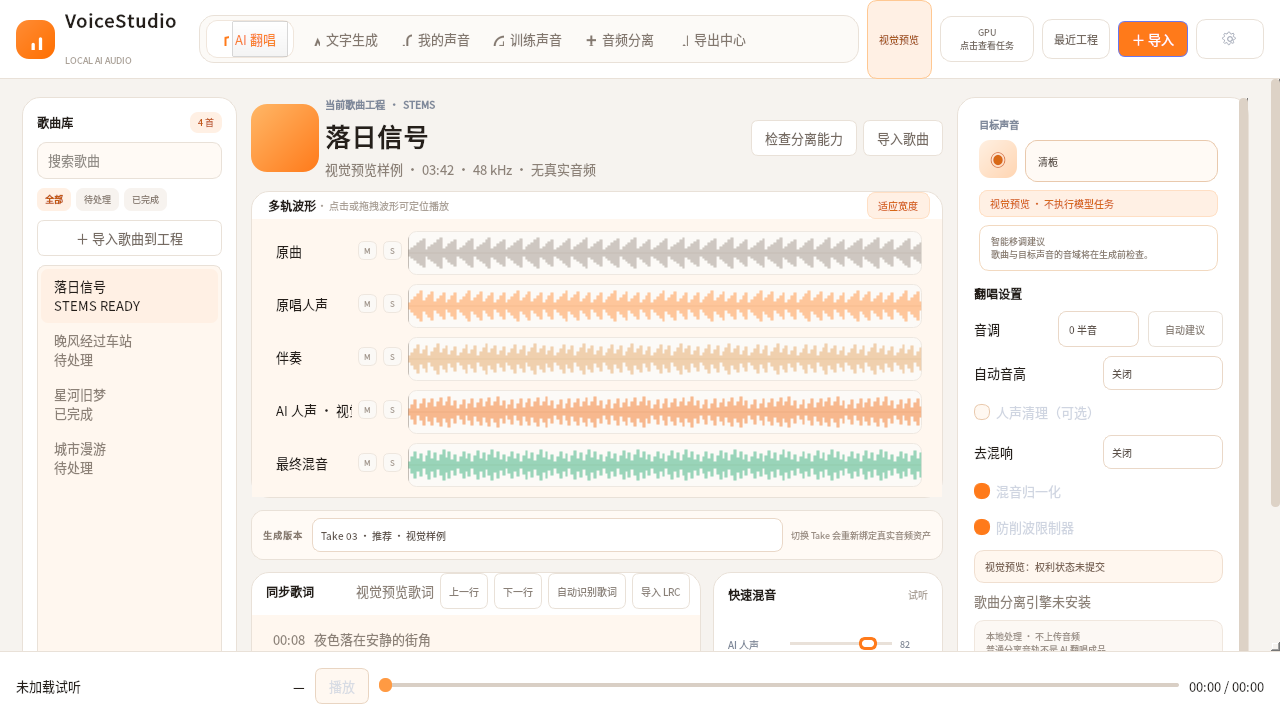
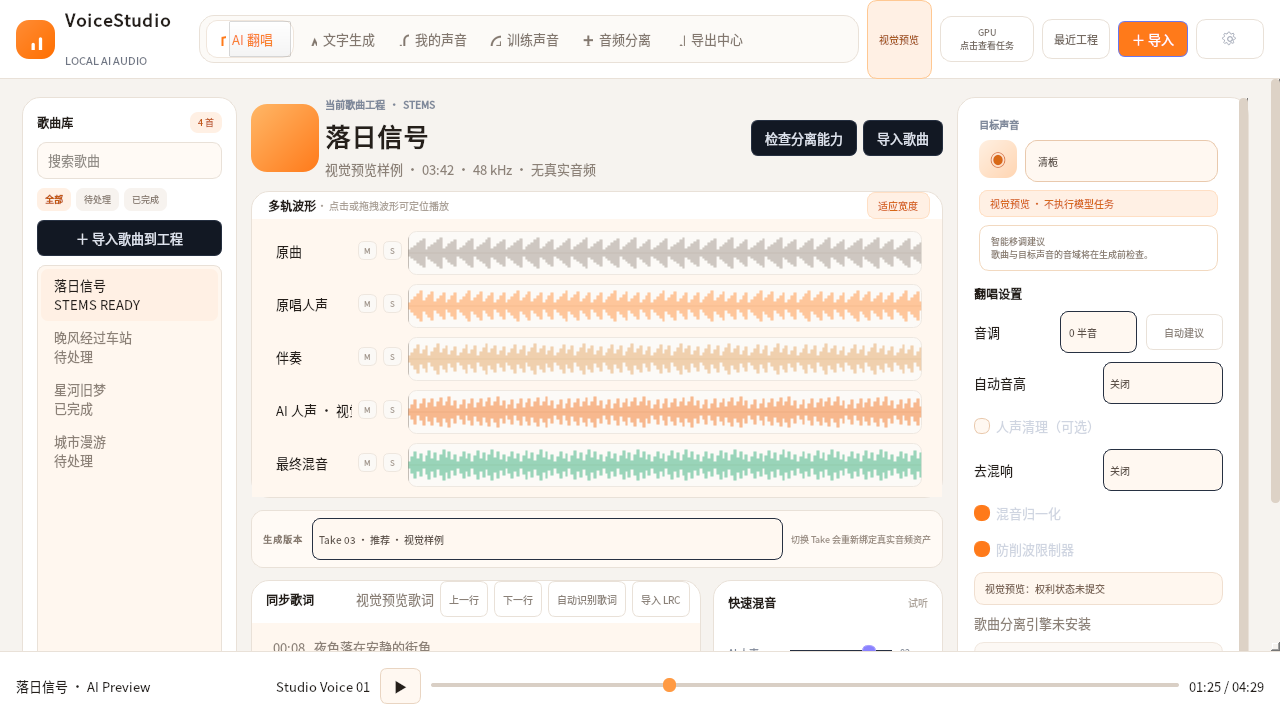
style(ui): polish preview transport and compact header

diff --git a/src/local_voice_studio/ui/main_window.py b/src/local_voice_studio/ui/main_window.py
@@ -5,22 +5,79 @@ import re
 import sys
 from pathlib import Path
 
-from PySide6.QtCore import QProcess, QProcessEnvironment, Qt, QUrl
+from PySide6.QtCore import QProcess, QProcessEnvironment, Qt, QUrl, QTimer, QSize
 from PySide6.QtGui import QCloseEvent, QDesktopServices, QIcon, QPainter, QTextCursor
 from PySide6.QtWidgets import (
     QCheckBox, QDialog, QFileDialog, QFrame, QHBoxLayout, QInputDialog, QLabel, QListWidget, QListWidgetItem, QMainWindow, QMenu, QMessageBox,
-    QGroupBox, QPlainTextEdit, QProgressBar, QPushButton, QStackedWidget, QStyledItemDelegate, QStyleOptionViewItem, QToolButton, QVBoxLayout, QWidget,
+    QGroupBox, QPlainTextEdit, QProgressBar, QPushButton, QSlider, QSizePolicy, QStackedWidget, QStyledItemDelegate, QStyleOptionViewItem, QToolButton, QVBoxLayout, QWidget,
 )
 
 from ..paths import AppPaths
 from ..storage import StudioStore
 from .project_session import ProjectSession
-from .simple_pages import MyVoicesPage, OneClickGeneratePage, OneClickTrainingPage, SimpleSettingsPage, TaskCenterDialog
+from .simple_pages import MyVoicesPage, OneClickGeneratePage, OneClickTrainingPage, SimpleSettingsPage, TaskCenterDialog, TaskDrawer
 from .cover_page import CoverPage
 from .theme import load_theme
 from .worker_client import WorkerClient
 from .audio import PreviewAudioController
 from .audio.global_player import GlobalPlayerSession
+from .html_pages import HtmlPage, RuntimePanel, SeparationStudioPage, ExportsStudioPage, RecentProjectsPage
+from .prototype_icons import prototype_icon
+
+
+class GlobalPlayerBar(QFrame):
+    """Persistent real-audio transport for the shared desktop player."""
+    def __init__(self, session: GlobalPlayerSession, parent=None):
+        super().__init__(parent); self.session = session; self._visual_preview = False; self.setObjectName("globalPlayerBar")
+        row = QHBoxLayout(self); row.setContentsMargins(16, 8, 16, 8); row.setSpacing(10)
+        self.title = QLabel("未加载试听"); self.title.setObjectName("playerTitle"); row.addWidget(self.title, 1)
+        self.side = QLabel("—"); self.side.setObjectName("playerSide"); row.addWidget(self.side)
+        self.play_button = QPushButton("播放"); self.play_button.setObjectName("playerPlay"); self.play_button.clicked.connect(self._toggle); row.addWidget(self.play_button)
+        self.slider = QSlider(Qt.Horizontal); self.slider.setRange(0, 0); self.slider.setObjectName("playerSeek"); self.slider.sliderMoved.connect(self._seek); row.addWidget(self.slider, 3)
+        self.time = QLabel("00:00 / 00:00"); row.addWidget(self.time)
+        self.timer = QTimer(self); self.timer.setInterval(200); self.timer.timeout.connect(self._tick); self.timer.start()
+    def _channel(self):
+        return self.session.controller.channels.get(self.session.controller.master_role)
+    def _toggle(self):
+        if self._visual_preview:
+            self.play_button.setText("Ⅱ" if self.play_button.text() == "▶" else "▶")
+            self.side.setText("视觉预览 · 无真实音频")
+            return
+        if self.session.controller.playing: self.session.pause(); self.play_button.setText("播放")
+        else:
+            self.session.play()
+            self.play_button.setText("暂停" if self.session.controller.playing else "播放")
+            if not self.session.controller.playing: self.title.setText("请先在创作页面载入试听音频")
+    def _seek(self, value):
+        if self._visual_preview:
+            self.time.setText(f"{self._fmt(value)} / {self._fmt(self.slider.maximum())}"); return
+        self.session.seek(int(value))
+    def _tick(self):
+        if self._visual_preview:
+            return
+        ch = self._channel()
+        if ch is None:
+            self.slider.setRange(0, 0); self.time.setText("00:00 / 00:00"); self.play_button.setText("播放"); return
+        player = ch.player; pos = ch.position()
+        duration = int(player.duration()) if callable(getattr(player, "duration", None)) else 0
+        self.slider.setRange(0, max(0, duration))
+        if not self.slider.isSliderDown():
+            self.slider.blockSignals(True); self.slider.setValue(min(pos, max(0, self.slider.maximum()))); self.slider.blockSignals(False)
+        source = player.source().toLocalFile() if callable(getattr(player, "source", None)) else ""
+        self.title.setText(Path(source).name if source else "未加载试听")
+        self.time.setText(f"{self._fmt(pos)} / {self._fmt(duration)}")
+        self.play_button.setText("暂停" if self.session.controller.playing else "播放")
+    @staticmethod
+    def _fmt(ms):
+        sec=max(0,int(ms)//1000); return f"{sec//60:02d}:{sec%60:02d}"
+    def sync(self, title="", side=""):
+        self.title.setText(title or "未加载试听"); self.side.setText(side or "—")
+
+    def set_visual_sample(self, title="落日信号 · AI Preview", side="Studio Voice 01", current=85000, total=269000):
+        """Show the HTML reference transport without claiming an audio file exists."""
+        self._visual_preview = True
+        self.title.setText(title); self.side.setText(side); self.play_button.setText("▶")
+        self.slider.setRange(0, int(total)); self.slider.setValue(int(current)); self.time.setText(f"{self._fmt(current)} / {self._fmt(total)}")
 
 
 class SetupDialog(QDialog):
@@ -93,28 +150,56 @@ class SetupDialog(QDialog):
 
 
 class MainWindow(QMainWindow):
-    def __init__(self, paths: AppPaths, store: StudioStore):
+    def __init__(self, paths: AppPaths, store: StudioStore, client=None):
         super().__init__(); self.paths, self.store = paths, store; self.setWindowTitle("VoiceStudio · 本地 AI 声音创作工作室"); self.resize(1440, 900); self.setMinimumSize(1280, 720)
         self.session = ProjectSession(store, self); self.project = self.session.current
-        self.client = WorkerClient(paths, self); self.global_player = GlobalPlayerSession(PreviewAudioController.create_qt(self)); self._build(); self.session.project_changed.connect(self._switch_project); self.client.start(); self.statusBar().showMessage("本地工作进程正在启动……")
+        self.client = client or WorkerClient(paths, self); self.global_player = GlobalPlayerSession(PreviewAudioController.create_qt(self)); self._build(); self.session.project_changed.connect(self._switch_project); self.client.start(); self.statusBar().showMessage("本地工作进程正在启动……"); self.statusBar().hide()
         self.client.state_changed.connect(self._state); self.client.event.connect(self._worker_event)
 
     def _build(self) -> None:
-        central = QWidget(); root = QHBoxLayout(central); root.setContentsMargins(0, 0, 0, 0); root.setSpacing(0); self.setCentralWidget(central)
-        sidebar = QWidget(); sidebar.setObjectName("sidebar"); sidebar.setFixedWidth(220); side_layout = QVBoxLayout(sidebar); side_layout.setContentsMargins(0, 0, 0, 0); brand = QLabel("VoiceStudio"); brand.setObjectName("brand"); side_layout.addWidget(brand); brand_sub = QLabel("LOCAL AI AUDIO STUDIO"); brand_sub.setObjectName("brandSub"); side_layout.addWidget(brand_sub); self.project_button = QToolButton(); self.project_button.setObjectName("projectPicker"); self.project_button.setToolButtonStyle(Qt.ToolButtonTextBesideIcon); self.project_button.setPopupMode(QToolButton.InstantPopup); self.project_menu = QMenu(self.project_button); self.project_menu.aboutToShow.connect(self._refresh_project_menu); self.project_button.setMenu(self.project_menu); side_layout.addWidget(self.project_button)
-        self.navigation = QListWidget(); self.navigation.setObjectName("navigation"); self.navigation.setAccessibleName("主导航"); self.navigation.setFrameShape(QListWidget.NoFrame); self.navigation.setItemDelegate(_NavigationDelegate(self.navigation)); side_layout.addWidget(self.navigation); task_center = QPushButton("任务中心"); task_center.setObjectName("sidebarButton"); task_center.setAccessibleName("任务中心"); task_center.clicked.connect(self._open_task_center); side_layout.addWidget(task_center); version = QLabel("GPT-SoVITS V2ProPlus\n完全本地 · 无遥测"); version.setObjectName("sidebarFoot"); side_layout.addWidget(version); root.addWidget(sidebar)
-        workspace = QWidget(); workspace.setObjectName("workspace"); workspace_layout = QVBoxLayout(workspace); workspace_layout.setContentsMargins(0, 0, 0, 0); workspace_layout.setSpacing(0)
-        topbar = QFrame(); topbar.setObjectName("topbar"); topbar_layout = QHBoxLayout(topbar); topbar_layout.setContentsMargins(26, 0, 26, 0); topbar_layout.setSpacing(8)
-        topbar_layout.addWidget(QLabel("创作")); topbar_layout.addWidget(QLabel("›")); self.current_title = current_title = QLabel("AI 翻唱工作台"); current_title.setObjectName("topbarTitle"); topbar_layout.addWidget(current_title); topbar_layout.addStretch()
-        self.topbar_status = QLabel("本地工作进程 · 启动中"); self.topbar_status.setObjectName("topbarStatus"); topbar_layout.addWidget(self.topbar_status, 0, Qt.AlignVCenter)
-        settings_button = QPushButton("设置"); settings_button.setObjectName("topbarButton"); settings_button.setAccessibleName("打开设置"); settings_button.clicked.connect(lambda: self.navigation.setCurrentRow(4)); topbar_layout.addWidget(settings_button)
-        workspace_layout.addWidget(topbar)
-        self.stack = QStackedWidget(); workspace_layout.addWidget(self.stack, 1); root.addWidget(workspace, 1)
-        for icon, name in (("cover.svg", "AI 翻唱"), ("generate.svg", "文字生成"), ("voices.svg", "我的声音"), ("training.svg", "训练声音"), ("settings.svg", "设置")):
-            item = QListWidgetItem(self._navigation_icon(icon), name)
-            self.navigation.addItem(item)
-        self.navigation.currentRowChanged.connect(self.stack.setCurrentIndex); self.navigation.currentTextChanged.connect(self.current_title.setText); self.navigation.setCurrentRow(0)
+        central = QWidget(); central.setObjectName("appShell"); root = QVBoxLayout(central); root.setContentsMargins(0, 0, 0, 0); root.setSpacing(0); self.setCentralWidget(central)
+        header = QFrame(); header.setObjectName("appHeader"); header.setFixedHeight(78); h = QHBoxLayout(header); h.setContentsMargins(20, 0, 20, 0); h.setSpacing(16); self._header_layout = h
+        brand_box = QWidget(); self.brand_box = brand_box; brand_box.setFixedWidth(205); brand_row = QHBoxLayout(brand_box); brand_row.setContentsMargins(0, 0, 0, 0); brand_row.setSpacing(10)
+        mark = QLabel(); mark.setObjectName("brandMark"); mark.setFixedSize(39, 39); mark.setAlignment(Qt.AlignCenter); mark.setPixmap(prototype_icon("brand", 22).pixmap(22, 22)); brand_row.addWidget(mark)
+        brand_text = QVBoxLayout(); brand_text.setSpacing(2); brand = QLabel("VoiceStudio"); self.brand_label = brand; brand.setObjectName("brand"); brand.setContentsMargins(0, 0, 0, 0); brand.setFixedWidth(130); brand_text.addWidget(brand)
+        sub = QLabel("LOCAL AI AUDIO"); sub.setObjectName("brandSub"); sub.setContentsMargins(0, 0, 0, 0); sub.setFixedWidth(130); brand_text.addWidget(sub); brand_row.addLayout(brand_text); h.addWidget(brand_box)
+        self.navigation = QListWidget(); self.navigation.setObjectName("topNavigation"); self.navigation.setAccessibleName("主导航"); self.navigation.setFlow(QListWidget.LeftToRight); self.navigation.setHorizontalScrollBarPolicy(Qt.ScrollBarAlwaysOff); self.navigation.setVerticalScrollBarPolicy(Qt.ScrollBarAlwaysOff); self.navigation.setFrameShape(QListWidget.NoFrame); self.navigation.setFixedHeight(42); h.addWidget(self.navigation, 1)
+        self.navigation.setFixedHeight(48); self.navigation.setWrapping(False); self.navigation.setIconSize(QSize(16, 16))
+        self.topbar_status = QLabel("本地工作进程 · 启动中"); self.topbar_status.hide()
+        gpu_button = QPushButton("GPU\n点击查看任务"); gpu_button.setObjectName("gpuPill"); gpu_button.clicked.connect(self._open_task_center); h.addWidget(gpu_button)
+        self.project_button = QToolButton(); self.project_button.setObjectName("projectPicker"); self.project_button.setToolButtonStyle(Qt.ToolButtonTextBesideIcon); self.project_button.setPopupMode(QToolButton.InstantPopup); self.project_menu = QMenu(self.project_button); self.project_menu.aboutToShow.connect(self._refresh_project_menu); self.project_button.setMenu(self.project_menu); h.addWidget(self.project_button)
+        h.removeWidget(self.project_button); self.project_button.hide()
+        recent = QPushButton("最近工程"); recent.setObjectName("topbarButton"); recent.clicked.connect(lambda: self.navigation.setCurrentRow(6)); h.addWidget(recent)
+        quick_import = QPushButton("＋ 导入"); quick_import.setObjectName("primaryButton"); quick_import.clicked.connect(self._quick_import); h.addWidget(quick_import)
+        settings_button = QPushButton(); settings_button.setObjectName("topbarButton"); settings_button.setIcon(self._navigation_icon("settings.svg")); settings_button.setToolTip("设置"); settings_button.setAccessibleName("设置"); settings_button.setFixedWidth(44); settings_button.clicked.connect(lambda: self.navigation.setCurrentRow(7)); h.addWidget(settings_button)
+        root.addWidget(header)
+        content = QHBoxLayout(); content.setContentsMargins(0, 0, 0, 0); content.setSpacing(0)
+        self.stack = QStackedWidget(); self.stack.setObjectName("pageStack"); self.stack.setMinimumHeight(0); self.stack.setSizePolicy(QSizePolicy.Expanding, QSizePolicy.Ignored); content.addWidget(self.stack, 1)
+        root.addLayout(content, 1)
+        self.global_player_bar = GlobalPlayerBar(self.global_player); root.addWidget(self.global_player_bar)
+        labels = ["AI 翻唱", "文字生成", "我的声音", "训练声音", "音频分离", "导出中心", "最近工程", "设置"]
+        for name in labels:
+            item = QListWidgetItem(name); item.setSizeHint(QSize(104, 38)); self.navigation.addItem(item)
+        self.navigation.item(6).setHidden(True); self.navigation.item(7).setHidden(True)
+        for index, name in enumerate(("cover", "tts", "voices", "train", "separator", "exports")): self.navigation.item(index).setIcon(prototype_icon(name))
+        self.navigation.currentRowChanged.connect(self.stack.setCurrentIndex); self.navigation.setCurrentRow(0)
         self._build_project_pages(); self._update_project_button()
+        self._apply_header_density()
+
+    def _apply_header_density(self) -> None:
+        """Mirror the prototype's compact header breakpoint without hiding pages."""
+        if not hasattr(self, "navigation"):
+            return
+        compact = self.width() <= 1300
+        self.brand_box.setFixedWidth(175 if compact else 205)
+        self.brand_label.setStyleSheet("font-size:17px;" if compact else "")
+        self._header_layout.setContentsMargins(16 if compact else 20, 0, 16 if compact else 20, 0)
+        self._header_layout.setSpacing(8 if compact else 16)
+        self.navigation.setIconSize(QSize(14 if compact else 16, 14 if compact else 16))
+        item_width = 92 if compact else 104
+        for index in range(self.navigation.count()):
+            self.navigation.item(index).setSizeHint(QSize(item_width, 38))
+        self.navigation.setStyleSheet("QListWidget::item { font-size: 9px; padding: 0 2px; }" if compact else "")
 
     @staticmethod
     def _navigation_icon(name: str) -> QIcon:
@@ -126,17 +211,57 @@ class MainWindow(QMainWindow):
 
     def _build_project_pages(self) -> None:
         row = max(0, self.navigation.currentRow())
+        if not hasattr(self, "_page_groups"): self._page_groups = {}
+        key = str(self.project.resolve())
         while self.stack.count():
             page = self.stack.widget(0)
-            if hasattr(page, "release_resources"): page.release_resources()
-            self.stack.removeWidget(page); page.deleteLater()
-        self.cover_page = CoverPage(self.paths, self.store, self.project, self.client, global_player=self.global_player); self.generate_page = OneClickGeneratePage(self.store, self.project, self.client); self.voice_page = MyVoicesPage(self.store, self.project); self.training_page = OneClickTrainingPage(self.store, self.project, self.client); self.settings_page = SimpleSettingsPage(self.paths, self.store, self.project, self.client)
-        for page in (self.cover_page, self.generate_page, self.voice_page, self.training_page, self.settings_page): self.stack.addWidget(page)
-        self.stack.setCurrentIndex(row)
+            page._background_project = True
+            self.stack.removeWidget(page); page.hide()
+        if key in self._page_groups:
+            pages, self.global_player = self._page_groups[key]
+            self._install_project_pages(pages, row)
+            return
+        if self._page_groups:
+            self.global_player = GlobalPlayerSession(PreviewAudioController.create_qt(self))
+        self.cover_page = CoverPage(self.paths, self.store, self.project, self.client, global_player=self.global_player)
+        self.generate_page = OneClickGeneratePage(self.store, self.project, self.client)
+        self.voice_page = MyVoicesPage(self.store, self.project)
+        self.training_page = OneClickTrainingPage(self.store, self.project, self.client)
+        self.settings_page = SimpleSettingsPage(self.paths, self.store, self.project, self.client)
+        self.separator_page = SeparationStudioPage(self.store, self.project)
+        self.exports_page = ExportsStudioPage(self.store, self.project)
+        self.recent_page = RecentProjectsPage(self.store, self.project)
+        self.separator_page.audio_selected.connect(self._import_for_separation)
+        self.recent_page.project_selected.connect(lambda path: self.session.activate(Path(path)))
+        self.recent_page.project_create_requested.connect(self._new_project)
+        pages = (self.cover_page, self.generate_page, self.voice_page, self.training_page, self.separator_page, self.exports_page, self.recent_page, self.settings_page)
+        self._page_groups[key] = (pages, self.global_player)
+        self._install_project_pages(pages, row)
         self.voice_page.profiles_changed.connect(self.generate_page.refresh_profiles); self.voice_page.profiles_changed.connect(self.cover_page.refresh_profiles); self.training_page.profiles_changed.connect(self.generate_page.refresh_profiles); self.training_page.profiles_changed.connect(self.cover_page.refresh_profiles); self.training_page.profiles_changed.connect(self.voice_page.refresh); self.voice_page.generate_requested.connect(self._use_profile); self.voice_page.retrain_requested.connect(self._retrain_profile); self.generate_page.train_requested.connect(lambda: self.navigation.setCurrentRow(3)); self.settings_page.install_requested.connect(self._open_setup)
+
+    def _install_project_pages(self, pages, row):
+        names = ("cover_page", "generate_page", "voice_page", "training_page", "separator_page", "exports_page", "recent_page", "settings_page")
+        for name, page in zip(names, pages):
+            setattr(self, name, page); page._background_project = False; self.stack.addWidget(page)
+        self.global_player_bar.session = self.global_player
+        self.stack.setCurrentIndex(row)
 
     def _update_project_button(self) -> None:
         self.project_button.setText(self.session.display_name(self.project) + "  ▾")
+
+    def _quick_import(self):
+        self.navigation.setCurrentRow(0)
+        self.cover_page.import_song()
+
+    def _activate_dashboard_project(self, path):
+        try:
+            self.session.activate(Path(path)); self.navigation.setCurrentRow(0)
+        except (OSError, ValueError) as exc: QMessageBox.warning(self, "无法打开工程", str(exc))
+
+    def _import_for_separation(self, path: str) -> None:
+        self.navigation.setCurrentRow(0)
+        self.cover_page.set_song(path)
+        self.cover_page.separate_song()
 
     def _refresh_project_menu(self) -> None:
         self.project_menu.clear()
@@ -161,12 +286,45 @@ class MainWindow(QMainWindow):
         except Exception as exc: QMessageBox.critical(self, "VoiceStudio", str(exc))
 
     def _switch_project(self, project: Path) -> None:
+        self.global_player.pause()
+        self.generate_page.player.pause()
         self.project = Path(project); self._build_project_pages(); self._update_project_button(); self.statusBar().showMessage(f"已切换到项目：{self.session.display_name(self.project)}", 4000)
 
     def _open_task_center(self) -> None:
-        TaskCenterDialog(self.store, self.client, self).exec()
+        if hasattr(self, "task_drawer") and self.task_drawer.isVisible():
+            self.task_drawer.hide(); return
+        if not hasattr(self, "task_drawer"):
+            self.task_drawer = TaskDrawer(self.store, self.client, self)
+            self.task_drawer.full_center_requested.connect(self._open_full_task_center)
+        self.task_drawer.show_for_parent()
+
+    def _open_full_task_center(self) -> None:
+        dialog = TaskCenterDialog(self.store, self.client, self)
+        dialog.retry_generation_requested.connect(self._retry_generation)
+        dialog.exec()
+
+    def resizeEvent(self, event: QCloseEvent) -> None:  # noqa: N802 - Qt override
+        super().resizeEvent(event)
+        self._apply_header_density()
+        if hasattr(self, "task_drawer") and self.task_drawer.isVisible():
+            self.task_drawer.show_for_parent()
+
+    def _retry_generation(self, job) -> None:
+        profile_id = str(job.payload.get("profile_id", ""))
+        for entry in self.session.projects():
+            project = Path(entry["path"])
+            if any(profile.id == profile_id for profile in self.store.list_profiles(project)):
+                self.session.activate(project)
+                self.navigation.setCurrentRow(1)
+                self.generate_page._retry(job)
+                return
+        QMessageBox.warning(self, "无法重试", "找不到原任务使用的声音；声音可能已删除，请选择已授权且训练完成的声音重新生成。")
 
     def _use_profile(self, profile_id: str) -> None:
+        self.generate_page.refresh_profiles()
+        if self.generate_page.profile.findData(profile_id) < 0:
+            QMessageBox.warning(self, "声音尚不可用于生成", "此声音缺少完整授权、已训练模型或可用参考素材。请使用“追加训练”补齐声音后重试。")
+            return
         self.generate_page.select_profile(profile_id); self.navigation.setCurrentRow(1)
 
     def _retrain_profile(self, profile_id: str) -> None:
@@ -187,14 +345,15 @@ class MainWindow(QMainWindow):
 
     def _worker_event(self, request_id: str, event: str, payload: dict) -> None:
         if request_id == "worker" and event == "ready": self.statusBar().showMessage("本地工作进程就绪", 5000); self.topbar_status.setText("本地工作进程 · 就绪")
-        if hasattr(self, "cover_page"):
-            self.cover_page.handle_worker_event(request_id, event, payload)
+        for pages, _player in getattr(self, "_page_groups", {}).values():
+            pages[0].handle_worker_event(request_id, event, payload)
 
     def closeEvent(self, event: QCloseEvent) -> None:
-        for index in range(self.stack.count()):
-            page = self.stack.widget(index)
-            if hasattr(page, "release_resources"): page.release_resources()
-        self.client.shutdown(); super().closeEvent(event)
+        self.client.shutdown()
+        for pages, _player in getattr(self, "_page_groups", {}).values():
+            for page in pages:
+                if hasattr(page, "release_resources"): page.release_resources()
+        super().closeEvent(event)
 
 
 STYLE = load_theme()

diff --git a/src/local_voice_studio/ui/simple_pages.py b/src/local_voice_studio/ui/simple_pages.py
@@ -115,7 +115,7 @@ class ScanThread(QThread):
 
 
 class DropArea(QFrame):
-    paths_dropped = Signal(object)
+    paths_dropped = Signal(object); clicked = Signal()
 
     def __init__(self):
         super().__init__(); self.setObjectName("dropArea"); self.setAcceptDrops(True); self.setMinimumHeight(108)
@@ -125,6 +125,10 @@ class DropArea(QFrame):
     def dropEvent(self, event: QDropEvent) -> None:
         paths = [Path(item.toLocalFile()) for item in event.mimeData().urls() if item.isLocalFile()]
         if paths: self.paths_dropped.emit(paths); event.acceptProposedAction()
+    def mousePressEvent(self, event) -> None:  # noqa: N802 - Qt override
+        if event.button() == Qt.LeftButton:
+            self.clicked.emit(); event.accept(); return
+        super().mousePressEvent(event)
 
 
 class RecordingDialog(QDialog):
@@ -274,7 +278,7 @@ class OneClickTrainingPage(QWidget):
         singing_actions = QHBoxLayout(); self.singing_train_button = QPushButton("训练歌唱模型"); self.singing_train_button.setObjectName("primaryButton"); self.singing_train_button.clicked.connect(self._start_singing_training); singing_actions.addWidget(self.singing_train_button); self.singing_cancel_button = QPushButton("取消训练"); self.singing_cancel_button.clicked.connect(self._cancel_singing_training); self.singing_cancel_button.hide(); singing_actions.addWidget(self.singing_cancel_button); self.singing_manage_button = QPushButton("管理版本"); self.singing_manage_button.clicked.connect(self._manage_singing_versions); singing_actions.addWidget(self.singing_manage_button); singing_form.addRow(singing_actions)
         self.singing_progress = QProgressBar(); self.singing_progress.setRange(0, 100); self.singing_progress.setValue(0); singing_form.addRow("训练进度", self.singing_progress)
         self.singing_model_card = self.singing_card; self.singing_model_status = self.singing_status; self.singing_model_profile = self.singing_profile; self.train_singing = self.singing_train_button
-        card = QGroupBox("导入声音素材"); card.setObjectName("trainingMaterialsCard"); form = QFormLayout(card); self.drop = DropArea(); self.drop.paths_dropped.connect(self._scan); form.addRow(self.drop)
+        card = QGroupBox("导入声音素材"); card.setObjectName("trainingMaterialsCard"); form = QFormLayout(card); self.drop = DropArea(); self.drop.paths_dropped.connect(self._scan); self.drop.clicked.connect(self._files); form.addRow(self.drop)
         row = QHBoxLayout(); files = QPushButton("选择音频"); files.clicked.connect(self._files); folder = QPushButton("选择文件夹"); folder.clicked.connect(self._folder); manage = QPushButton("管理已导入素材"); manage.clicked.connect(self._manage_assets); row.addWidget(files); row.addWidget(folder); row.addWidget(manage); row.addStretch(); self.material_actions = row; form.addRow(row); center.addWidget(card)
         samples_card = QFrame(); samples_card.setObjectName("trainingSamplesCard"); samples_layout = QVBoxLayout(samples_card); samples_layout.setContentsMargins(16, 14, 16, 14); samples_head = QHBoxLayout(); sample_copy = QVBoxLayout(); sample_title = QLabel("素材列表"); sample_title.setObjectName("cardTitle"); sample_subtitle = QLabel("自动质检后可剔除低质量片段"); sample_subtitle.setObjectName("hint"); sample_copy.addWidget(sample_title); sample_copy.addWidget(sample_subtitle); samples_head.addLayout(sample_copy); samples_head.addStretch(); clean = QPushButton("自动清理"); clean.clicked.connect(self._manage_assets); samples_head.addWidget(clean); samples_layout.addLayout(samples_head); self.sample_rows = QVBoxLayout(); self.sample_rows.setSpacing(6); samples_layout.addLayout(self.sample_rows); self.material = QLabel("尚未导入素材"); self.material.setObjectName("trainingMaterialState"); self.material.setWordWrap(True); samples_layout.addWidget(self.material); center.addWidget(samples_card)
         self.review = QGroupBox("逐条试听并确认"); review_layout = QVBoxLayout(self.review); self.review_hint = QLabel("默认只审核异常片段；Space 播放，Enter 确认，Delete 排除，↑↓ 切换。"); self.review_hint.setObjectName("hint"); review_layout.addWidget(self.review_hint); self.review_card = ReviewSegmentCard(); self.review_card.changed.connect(self._review_changed); self.review_card.confirmed.connect(self._review_confirmed); self.review_card.navigate.connect(self._review_navigate); review_layout.addWidget(self.review_card)
@@ -675,7 +679,7 @@ class MyVoicesPage(QWidget):
         for index, caption in enumerate(("授权素材", "可用时长", "文字生成", "AI 翻唱")):
             card = QFrame(); card.setObjectName("voiceStat"); card_layout = QVBoxLayout(card); card_layout.setContentsMargins(9, 8, 9, 8); card_layout.setSpacing(2); value = QLabel("—"); value.setObjectName("voiceStatValue"); caption_label = QLabel(caption); caption_label.setObjectName("voiceStatCaption"); card_layout.addWidget(value); card_layout.addWidget(caption_label); stats_layout.addWidget(card, index // 2, index % 2); self.detail_stats.append(value)
         detail_layout.addWidget(stats)
-        capability_label = QLabel("能力状态"); capability_label.setObjectName("sectionLabel"); detail_layout.addWidget(capability_label); self.detail_capabilities = QLabel("尚未选择声音"); self.detail_capabilities.setObjectName("voiceCapabilities"); self.detail_capabilities.setWordWrap(True); detail_layout.addWidget(self.detail_capabilities); version_label = QLabel("模型版本"); version_label.setObjectName("sectionLabel"); detail_layout.addWidget(version_label); self.detail_versions = QLabel("没有可显示的版本记录"); self.detail_versions.setObjectName("voiceVersions"); self.detail_versions.setWordWrap(True); detail_layout.addWidget(self.detail_versions); detail_layout.addStretch(); self.detail_note = QLabel("所有操作均使用本地项目中的授权、素材和模型记录。"); self.detail_note.setObjectName("hint"); self.detail_note.setWordWrap(True); detail_layout.addWidget(self.detail_note)
+        capability_label = QLabel("能力状态"); capability_label.setObjectName("sectionLabel"); detail_layout.addWidget(capability_label); self.detail_capabilities = QLabel("尚未选择声音"); self.detail_capabilities.setObjectName("voiceCapabilities"); self.detail_capabilities.setWordWrap(True); detail_layout.addWidget(self.detail_capabilities); version_label = QLabel("模型版本"); version_label.setObjectName("sectionLabel"); detail_layout.addWidget(version_label); self.detail_versions = QLabel("没有可显示的版本记录"); self.detail_versions.setObjectName("voiceVersions"); self.detail_versions.setWordWrap(True); detail_layout.addWidget(self.detail_versions); self.detail_wave = TtsPreviewWave(); self.detail_wave.setObjectName("voiceDetailWave"); self.detail_wave.setMinimumHeight(66); self.detail_wave.hide(); detail_layout.addWidget(self.detail_wave); detail_layout.addStretch(); self.detail_note = QLabel("所有操作均使用本地项目中的授权、素材和模型记录。"); self.detail_note.setObjectName("hint"); self.detail_note.setWordWrap(True); detail_layout.addWidget(self.detail_note)
         detail_actions = QWidget(); detail_actions.setObjectName("voiceDetailActions"); detail_grid = QGridLayout(detail_actions); detail_grid.setContentsMargins(0, 0, 0, 0); detail_grid.setSpacing(8)
         preview_button = QPushButton("▶ 试听"); preview_button.clicked.connect(self._preview_selected); generate_button = QPushButton("用于生成"); generate_button.setObjectName("primaryButton"); generate_button.clicked.connect(self._generate_selected); retrain_button = QPushButton("追加训练"); retrain_button.clicked.connect(self._retrain_selected); versions_button = QPushButton("版本历史 / A/B"); versions_button.clicked.connect(self._versions_selected)
         for index, button in enumerate((preview_button, generate_button, retrain_button, versions_button)): detail_grid.addWidget(button, index // 2, index % 2)

diff --git a/src/local_voice_studio/ui/preview.py b/src/local_voice_studio/ui/preview.py
@@ -239,6 +239,11 @@ def apply_preview_presentation(window) -> None:
     training = window.training_page
     training.name.setText("我的新声音")
     training.consent.setChecked(False)
+    try:
+        training.drop.clicked.disconnect()
+    except RuntimeError:
+        pass
+    training.drop.clicked.connect(lambda: training.quality_summary.setText("视觉预览不打开文件选择器；正常模式会选择真实声音素材。"))
     training._render_material_rows([
         ("voice_sample_01.wav", 94, "优秀", "preview:voice_sample_01"),
         ("voice_sample_02.wav", 87, "良好", "preview:voice_sample_02"),
@@ -349,6 +354,7 @@ def create_preview_window():
     badge.setAccessibleName("视觉预览，数据与 Worker 已隔离")
     window._header_layout.insertWidget(2, badge)
     apply_preview_presentation(window)
+    window.global_player_bar.set_visual_sample()
     window.voice_page.refresh()
     window.voice_page.detail_wave.set_visual_sample(True)
     window.voice_page.detail_wave.show()
